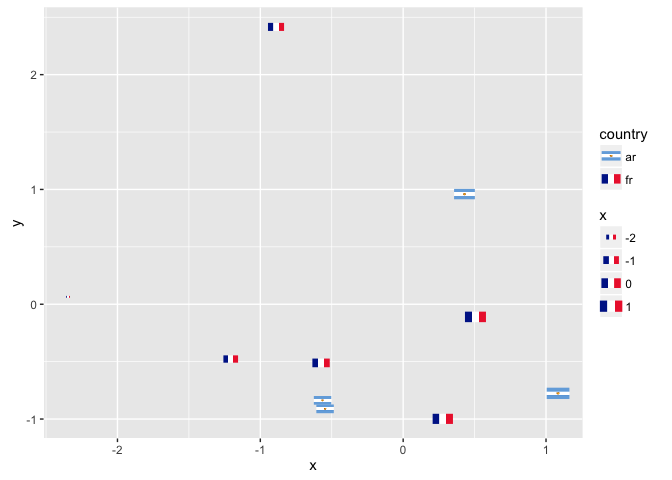
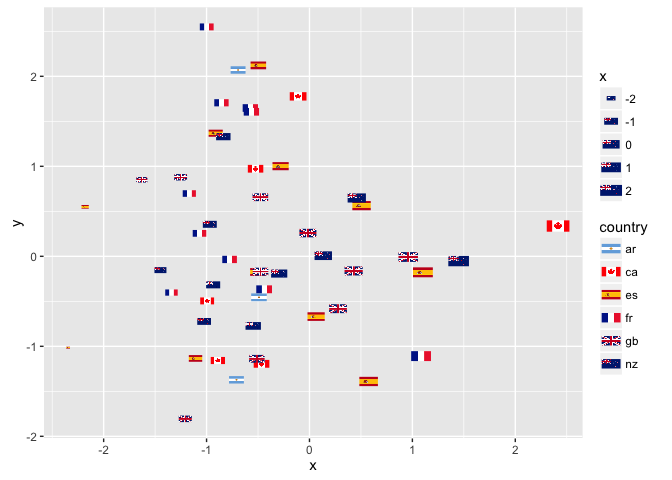
default nz

diff --git a/README.md b/README.md
@@ -9,8 +9,8 @@ flag geom for ggplot2
 
     data(lflags)
     set.seed(1234)
-    d <- data.frame(x=rnorm(10), y=rnorm(10), 
-                    country=sample(c("ar","fr"), 10, TRUE), 
+    d <- data.frame(x=rnorm(50), y=rnorm(50), 
+                    country=sample(c("ar","fr", "nz", "gb", "es", "ca"), 50, TRUE), 
                     stringsAsFactors = FALSE)
     ggplot(d, aes(x=x, y=y, country=country, size=x)) + 
       geom_flag() + 
